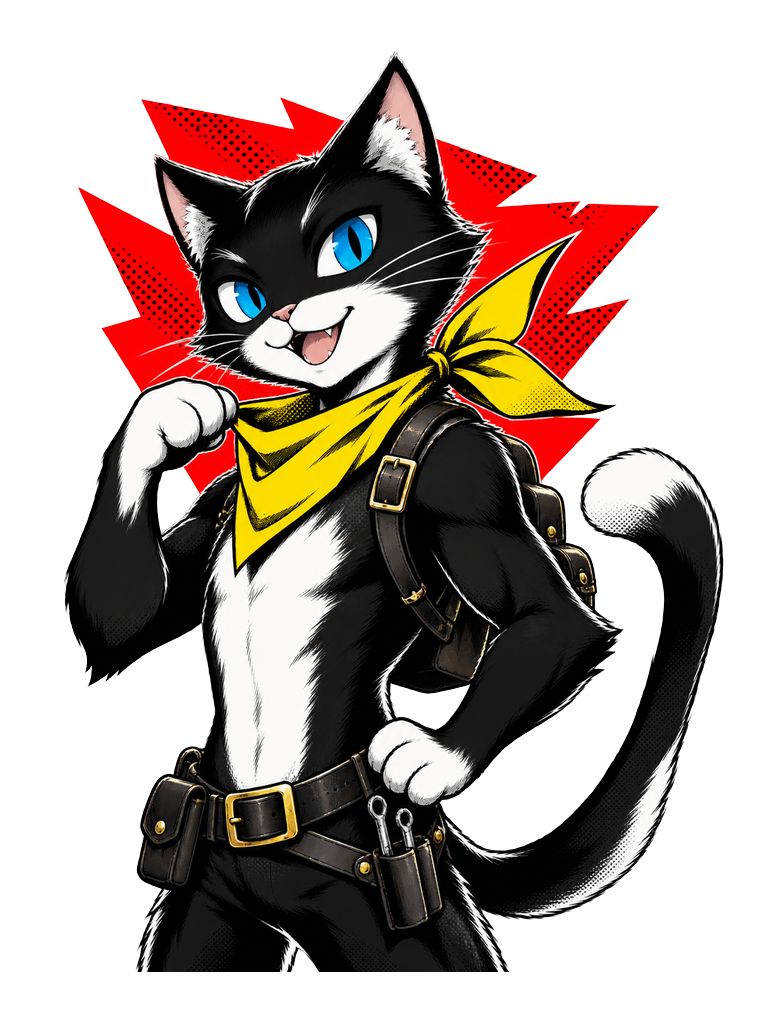
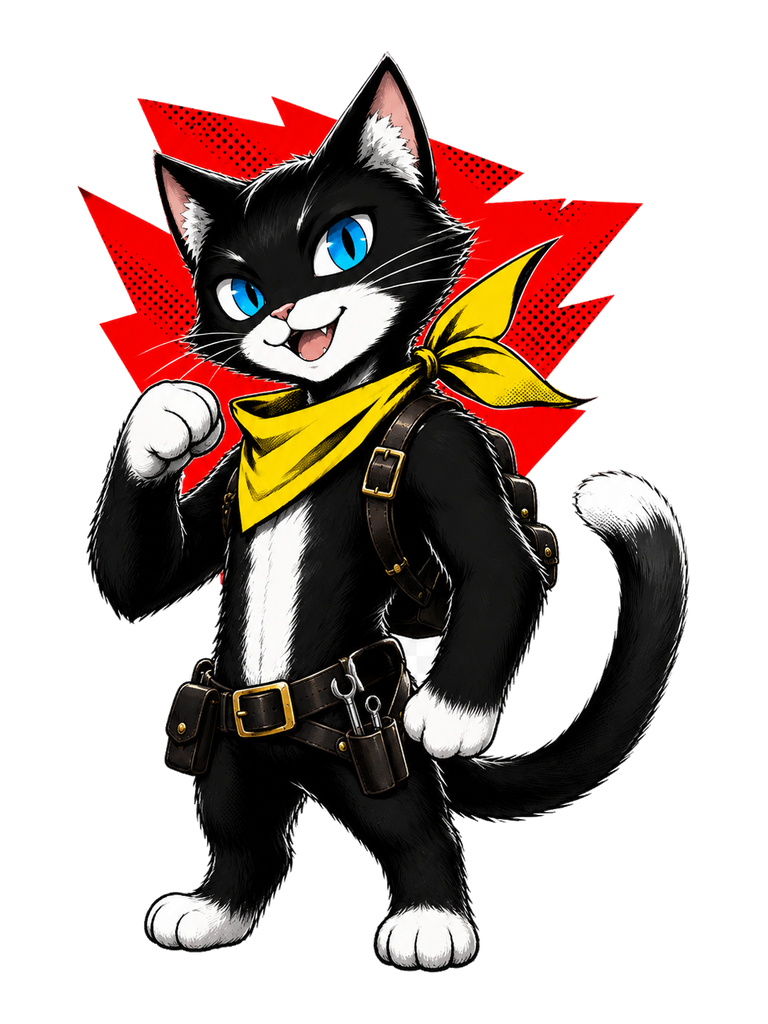
4 set 2026, 03:13

diff --git a/docs/grafica/stato-generazione-asset.md b/docs/grafica/stato-generazione-asset.md
@@ -2,7 +2,7 @@
 
 Registro richiesto dall’utente il 2026-09-03. Fonte: `prompt-immagini.md`, `riferimenti-visivi.md` e `data/seed/persona.json`.
 
-**461 file richiesti: 197 completati e approvati, 264 ancora da consegnare.**
+**461 file richiesti: 205 completati e approvati, 256 ancora da consegnare.**
 
 Navigazione§7.1 completata:12file salvati e approvati. Non rigenerarli.
 
@@ -38,7 +38,7 @@ Nessuna. La coppia Appeso è stata consegnata dall’utente come PNG RGBA con al
 | doti | 12 | 12 | 0 |
 | ui | 47 | 47 | 0 |
 | illustrazioni | 15 | 15 | 0 |
-| confidenti | 23 | 8 | 15 |
+| confidenti | 23 | 16 | 7 |
 | persona | 232 | 0 | 232 |
 | meteo | 17 | 0 | 17 |
 
@@ -260,21 +260,21 @@ Nessuna. La coppia Appeso è stata consegnata dall’utente come PNG RGBA con al
 ### confidenti
 
 - [x] **COMPLETATO — approvato da galaxy_task_validator** — `public/asset/confidenti/igor.png` — 768×1024
-- [x] **COMPLETATO — approvato da galaxy_task_validator** — `public/asset/confidenti/morgana.png` — 768×1024
+- [x] **COMPLETATO — approvato dall’utente** — `public/asset/confidenti/morgana.png` — 768×1024
 - [x] **COMPLETATO — approvato da galaxy_task_validator** — `public/asset/confidenti/ryuji.png` — 768×1024
 - [x] **COMPLETATO — approvato da galaxy_task_validator** — `public/asset/confidenti/ann.png` — 768×1024
 - [x] **COMPLETATO — approvato da galaxy_task_validator** — `public/asset/confidenti/yusuke.png` — 768×1024
 - [x] **COMPLETATO — approvato da galaxy_task_validator** — `public/asset/confidenti/makoto.png` — 768×1024
 - [x] **COMPLETATO — approvato da galaxy_task_validator** — `public/asset/confidenti/futaba.png` — 768×1024
 - [x] **COMPLETATO — approvato da galaxy_task_validator** — `public/asset/confidenti/haru.png` — 768×1024
-- [ ] **DA CONSEGNARE** — `public/asset/confidenti/akechi.png` — 768×1024
-- [ ] **DA CONSEGNARE** — `public/asset/confidenti/kasumi.png` — 768×1024
-- [ ] **DA CONSEGNARE** — `public/asset/confidenti/sojiro.png` — 768×1024
-- [ ] **DA CONSEGNARE** — `public/asset/confidenti/takemi.png` — 768×1024
-- [ ] **DA CONSEGNARE** — `public/asset/confidenti/kawakami.png` — 768×1024
-- [ ] **DA CONSEGNARE** — `public/asset/confidenti/yoshida.png` — 768×1024
-- [ ] **DA CONSEGNARE** — `public/asset/confidenti/mishima.png` — 768×1024
-- [ ] **DA CONSEGNARE** — `public/asset/confidenti/ohya.png` — 768×1024
+- [x] **COMPLETATO — approvato da galaxy_task_validator** — `public/asset/confidenti/akechi.png` — 768×1024
+- [x] **COMPLETATO — approvato da galaxy_task_validator** — `public/asset/confidenti/kasumi.png` — 768×1024
+- [x] **COMPLETATO — approvato da galaxy_task_validator** — `public/asset/confidenti/sojiro.png` — 768×1024
+- [x] **COMPLETATO — approvato da galaxy_task_validator** — `public/asset/confidenti/takemi.png` — 768×1024
+- [x] **COMPLETATO — approvato da galaxy_task_validator** — `public/asset/confidenti/kawakami.png` — 768×1024
+- [x] **COMPLETATO — approvato da galaxy_task_validator** — `public/asset/confidenti/yoshida.png` — 768×1024
+- [x] **COMPLETATO — approvato da galaxy_task_validator** — `public/asset/confidenti/mishima.png` — 768×1024
+- [x] **COMPLETATO — approvato da galaxy_task_validator** — `public/asset/confidenti/ohya.png` — 768×1024
 - [ ] **DA CONSEGNARE** — `public/asset/confidenti/hifumi.png` — 768×1024
 - [ ] **DA CONSEGNARE** — `public/asset/confidenti/chihaya.png` — 768×1024
 - [ ] **DA CONSEGNARE** — `public/asset/confidenti/iwai.png` — 768×1024
@@ -885,13 +885,28 @@ Primi otto ritratti §9 generati con Imagegen e adattati proporzionalmente a 768
 | Asset | Sorgente Imagegen |
 |---|---|
 | `public/asset/confidenti/igor.png` | `exec-80853693-28f3-449c-860d-6bb463bcdfd0.png` |
-| `public/asset/confidenti/morgana.png` | `exec-69aca76c-87bd-4c92-9a20-963b6238c977.png` |
+| `public/asset/confidenti/morgana.png` | `exec-1693f61b-1d49-4aca-868c-2650b71bb30b.png` — fondo convertito in alfa reale |
 | `public/asset/confidenti/ryuji.png` | `exec-adff4db2-005c-4c03-8d26-3d55e982404b.png` |
 | `public/asset/confidenti/ann.png` | `exec-cb22c942-6d24-41f2-a054-683708de2f75.png` |
 | `public/asset/confidenti/yusuke.png` | `exec-3de7658c-25f7-47ce-9371-d21b8e1af436.png` |
 | `public/asset/confidenti/makoto.png` | `exec-d0bfa718-89dd-4479-bfe4-11c7dd3d5b65.png` |
 | `public/asset/confidenti/futaba.png` | `exec-5ce61061-0534-4afa-a282-b2fe2b204a98.png` |
 | `public/asset/confidenti/haru.png` | `exec-b610619b-79fb-4bb4-8123-24ea266310fc.png` |
+
+### Confidenti — lotto 2
+
+Otto ritratti §9 generati con Imagegen e adattati proporzionalmente a 768×1024 con sfondo alfa reale; approvati da galaxy_task_validator.
+
+| Asset | Sorgente Imagegen |
+|---|---|
+| `public/asset/confidenti/akechi.png` | `exec-a80ac9c4-6718-40b8-86fd-dc785495b1b9.png` |
+| `public/asset/confidenti/kasumi.png` | `exec-eb1be64f-a63d-49b7-b420-37e075fa2c11.png` |
+| `public/asset/confidenti/sojiro.png` | `exec-510463ad-10cb-49b2-955d-f0700da11819.png` |
+| `public/asset/confidenti/takemi.png` | `exec-cf092535-e439-4ae7-a60b-5b65ee6f80e4.png` |
+| `public/asset/confidenti/kawakami.png` | `exec-5d2fa746-de09-4234-a225-09e91bb7c02d.png` |
+| `public/asset/confidenti/yoshida.png` | `exec-25436948-9335-4232-bb3d-e48cc23d9ed2.png` |
+| `public/asset/confidenti/mishima.png` | `exec-87e2eb9c-2c27-4af7-a246-78231f048ba4.png` |
+| `public/asset/confidenti/ohya.png` | `exec-5af4d48d-1731-484f-995f-efd97ad6d371.png` |
 
 ## Impronte dei file completati
 
@@ -1089,10 +1104,18 @@ Rilevano eventuali sostituzioni accidentali dei file approvati.
 | `public/asset/illustrazioni/caricamento-7.png` | RGBA | 50566ee112da8c233200cd4b82c4c94b64962a54f8bb8907abb3ff9df1196ca8 |
 | `public/asset/illustrazioni/caricamento-8.png` | RGBA | d93b270ba8d1f3e1a689d198aa298b77a1e0ca6b93cddb46d79409501127161b |
 | `public/asset/confidenti/igor.png` | RGBA | 05e8d8c4a24fab808f86de0d8a41bc1a57afce2bfa4c54ce07f2541646db379d |
-| `public/asset/confidenti/morgana.png` | RGBA | 828ee84cc9543c7b32378ae3f8b86991322b874c996d7e234f9e4450b473982b |
+| `public/asset/confidenti/morgana.png` | RGBA | 6fa790c3c4dd82feb9d7cef72138047b3387d85a2c5303a127c78b2ee1918069 |
 | `public/asset/confidenti/ryuji.png` | RGBA | 063cf6b9cd019688141b9f1df4c53237bebaf845d9a0794d1f6e06d89a692f4b |
 | `public/asset/confidenti/ann.png` | RGBA | 26b4a7fd38a01699d932c3c419784f564444986fcba4804deaff4e369bd4d6c5 |
 | `public/asset/confidenti/yusuke.png` | RGBA | 33ececb619bf492f9ec0ae2f451f6915334ab80bd1c37d93df1eacadd43a85b9 |
 | `public/asset/confidenti/makoto.png` | RGBA | 48a6feb961d4a7ab2f05912a659e7cc276d905f8961c085b80cb28177203323b |
 | `public/asset/confidenti/futaba.png` | RGBA | 4d89245c2883ab99c7efdcc14e433e298ef72c02cc01ecdbb81285a7c0d62806 |
 | `public/asset/confidenti/haru.png` | RGBA | c62b3789f7d353aa8a970663a2015f969d225af6d07d3f69f7e9ec979ec7ccec |
+| `public/asset/confidenti/akechi.png` | RGBA | abcf6b7da170c4edd612c4a708d5e4812adae2cb10d2a18064a88cfb839a446f |
+| `public/asset/confidenti/kasumi.png` | RGBA | d763f7d29064b4c62b3796ebb3caee5aa0e4b1bafe80f037407cffb44f30f5c0 |
+| `public/asset/confidenti/sojiro.png` | RGBA | ab735e8001ba90fa72def90bbd731999958b59128f74f19307e748758c92b8e7 |
+| `public/asset/confidenti/takemi.png` | RGBA | eece60151a2913383c8e471c70f43adf20d8f2d75182970f8f82602658a67628 |
+| `public/asset/confidenti/kawakami.png` | RGBA | fe9f313b13568a1e2499eebb906ada3a0726270ae7965426862f88880eb49608 |
+| `public/asset/confidenti/yoshida.png` | RGBA | d93e671201f10f90b5a036258b540a0b9377f489516899b27145cf2338d904c7 |
+| `public/asset/confidenti/mishima.png` | RGBA | 10131ceebffba6355fc065a5266dc1bd627a21128be265b0be45f06f798970ea |
+| `public/asset/confidenti/ohya.png` | RGBA | f458f37a6f33bac823373662823860845e82a299013718e84d8656631fb2ccbe |
